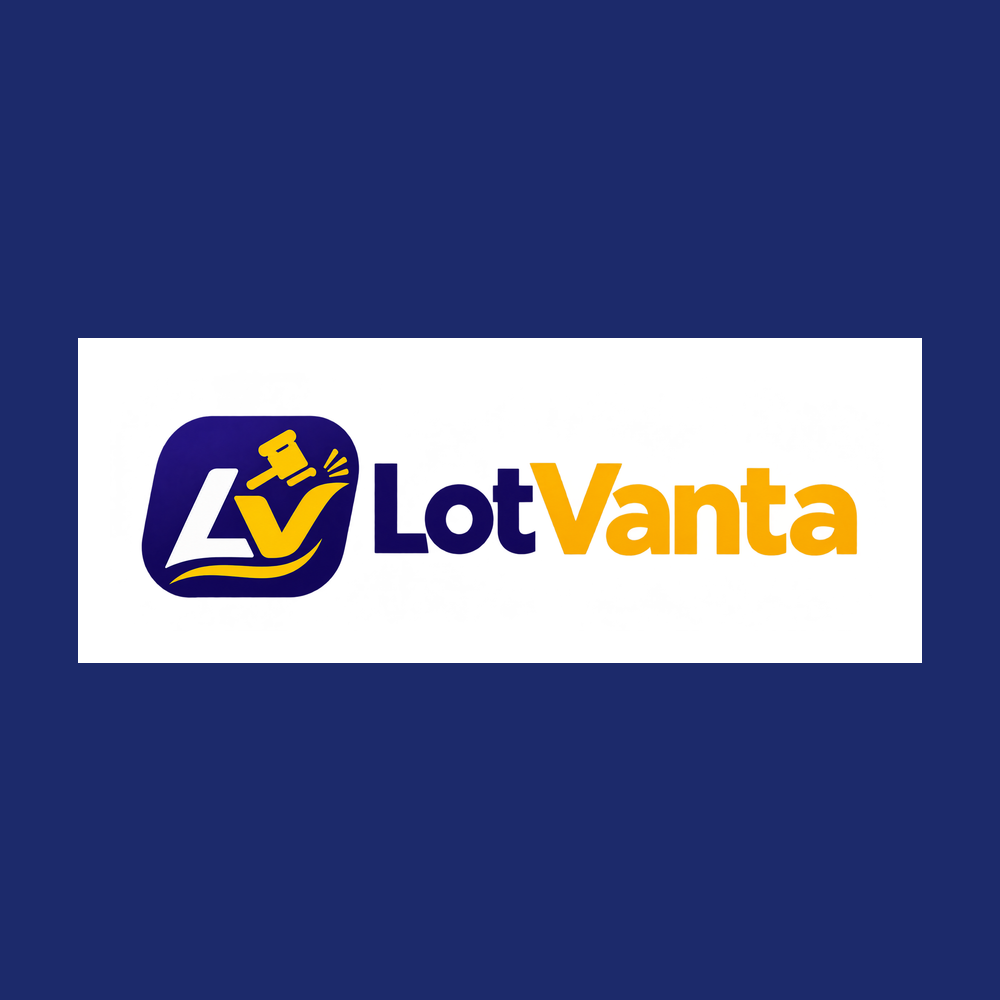
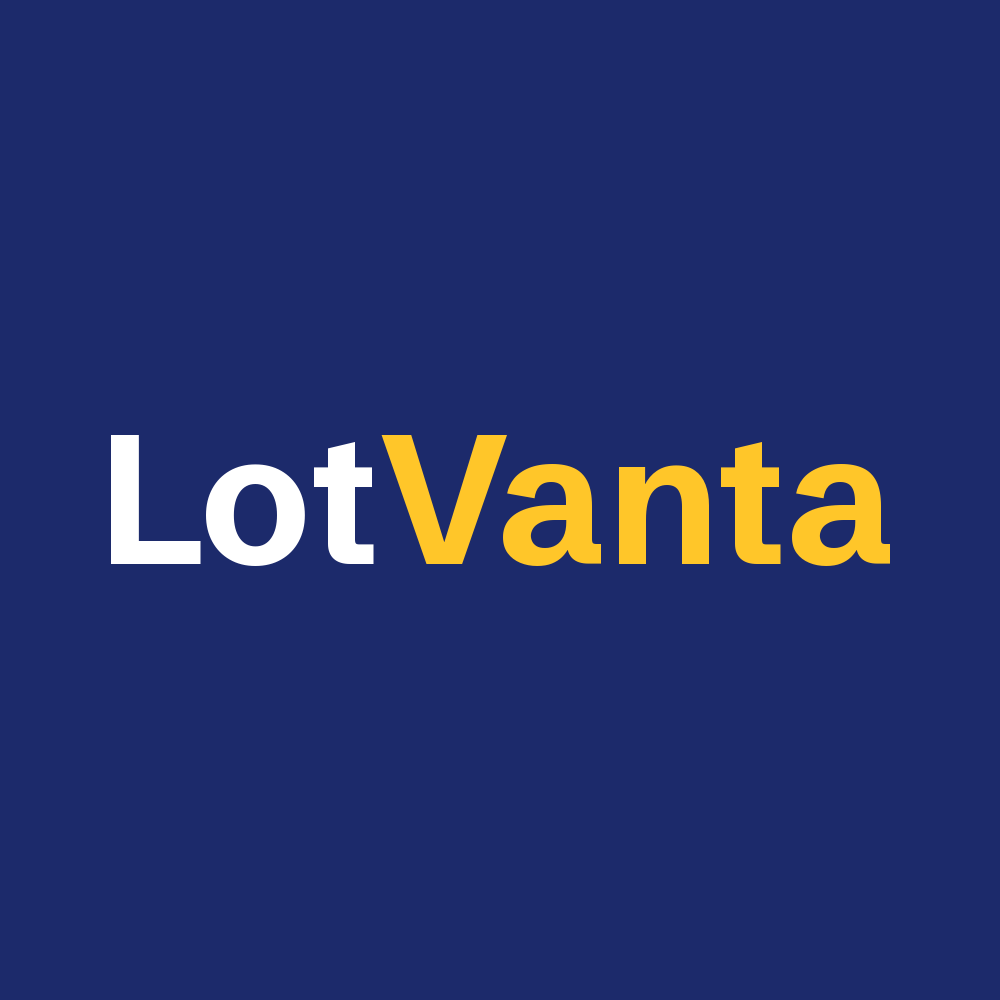
fix(mobile): remove splash plates and strengthen launch animation

Changed region(s): [[0.062, 0.341, 0.93, 0.682]]

diff --git a/apps/mobile/components/ui/launch-screen.tsx b/apps/mobile/components/ui/launch-screen.tsx
@@ -11,8 +11,7 @@ import { StatusBar } from 'expo-status-bar';
 import { mobileTheme as t } from '@auction-ng/ui';
 import { launchStyles as s } from './launch-styles';
 import wordmark from '../../assets/launch-wordmark.png';
-import tagline from '../../assets/launch-tagline.png';
-import icon from '../../assets/lotvanta-icon.png';
+import icon from '../../assets/launch-icon.png';
 
 export function LaunchScreen({
   error,
@@ -135,14 +134,33 @@ export function LaunchScreen({
                 {
                   scale: reveal.interpolate({
                     inputRange: [0, 1],
-                    outputRange: [0.96, 1],
+                    outputRange: [0.8, 1],
+                  }),
+                },
+                {
+                  translateY: reveal.interpolate({
+                    inputRange: [0, 1],
+                    outputRange: [24, 0],
                   }),
                 },
               ],
             },
           ]}
         >
-          <Image source={icon} style={s.brandIcon} resizeMode="contain" />
+          <Animated.View
+            style={{
+              transform: [
+                {
+                  scale: pulse.interpolate({
+                    inputRange: [0, 1],
+                    outputRange: [1, 1.04],
+                  }),
+                },
+              ],
+            }}
+          >
+            <Image source={icon} style={s.brandIcon} resizeMode="contain" />
+          </Animated.View>
           <Image
             source={wordmark}
             style={s.wordmark}
@@ -151,15 +169,22 @@ export function LaunchScreen({
             onLoad={() => setArtworkLoaded(true)}
             onError={() => setArtworkLoaded(true)}
           />
+          <Animated.Text
+            style={[
+              s.tagline,
+              {
+                opacity: reveal.interpolate({
+                  inputRange: [0, 0.4, 1],
+                  outputRange: [0, 0, 1],
+                }),
+              },
+            ]}
+          >
+            Bid. Win. Save.
+          </Animated.Text>
         </Animated.View>
       </View>
       <View style={s.bottom}>
-        <Image
-          source={tagline}
-          style={s.tagline}
-          resizeMode="contain"
-          accessibilityLabel="Bid. Win. Save."
-        />
         {error ? (
           <Text style={s.error}>
             The app could not finish loading. Close LotVanta and try again.

diff --git a/apps/mobile/components/ui/launch-styles.ts b/apps/mobile/components/ui/launch-styles.ts
@@ -88,13 +88,11 @@ export const launchStyles = StyleSheet.create({
   wordmark: {
     width: 300,
     maxWidth: '100%',
-    height: 130,
-    borderRadius: t.radius.card,
+    height: 64,
   },
   brandIcon: {
-    width: 112,
-    height: 112,
-    borderRadius: t.radius.promotion,
+    width: 160,
+    height: 160,
   },
   brandGroup: {
     alignItems: 'center',
@@ -109,7 +107,13 @@ export const launchStyles = StyleSheet.create({
     alignItems: 'center',
     gap: t.spacing.xl,
   },
-  tagline: { width: 200, height: 28 },
+  tagline: {
+    ...t.typography.title,
+    fontFamily: t.fontFamily,
+    fontWeight: '800',
+    color: t.colors['danfo-400'],
+    textAlign: 'center',
+  },
   dots: { flexDirection: 'row', gap: t.spacing.sm },
   dot: {
     width: 6,

diff --git a/apps/mobile/app.config.ts b/apps/mobile/app.config.ts
@@ -21,7 +21,7 @@ export default ({ config }: ConfigContext): ExpoConfig => {
         'expo-splash-screen',
         {
           ...launchTheme,
-          image: './assets/lotvanta-icon.png',
+          image: './assets/launch-icon.png',
           imageWidth: 160,
           resizeMode: 'contain',
         },

diff --git a/packages/ui/motion-tokens.ts b/packages/ui/motion-tokens.ts
@@ -2,7 +2,7 @@ export const motionTokens = {
   flash: 300,
   sheet: 200,
   hover: 150,
-  launchReveal: 450,
+  launchReveal: 650,
   launchPulse: 1200,
   launchMinimum: 2400,
 } as const;

diff --git a/docs/DESIGN.md b/docs/DESIGN.md
@@ -336,3 +336,5 @@ LotVanta web logo sizing (2026-11-04): remove the legacy wordmark-dot style/deco
 Closing window amendment (2026-11-04): owner changes Closing Now to the final 30 minutes inclusive, superseding previous 20-minute rules. Web and mobile use the shared merchandising threshold for red countdowns; Top Deals excludes the same window. Longer countdowns remain indigo. Silent updates, expiry removal and deadline extensions remain unchanged. Evidence: design/home-live-thirty-minutes/README.md.
 
 Mobile LotVanta launch amendment (2026-11-04): use the supplied LV icon on the native indigo splash and above the bundled LotVanta wordmark in the React Native launch screen. Owner explicitly requests a visible introduction: keep the app overlay for at least 2.4 seconds after its logo loads, then dismiss only when session restoration is ready; retain the existing brief reveal/breathing dots/fade. Honour reduced motion without bypassing the display time. Block touches to underlying screens while the overlay remains. This supersedes the earlier no-minimum-delay launch rule. Installed native branding requires a new APK; Expo Go's own initial launcher cannot be replaced by JavaScript.
+
+Mobile launch polish correction (2026-11-04): remove the white-backed horizontal source logo from launch surfaces. Use a transparent circular LV viewport (the supplied raster has opaque black corners), with a transparent Schibsted LotVanta name in white/yellow below it. Keep web/footer artwork unchanged. Move Bid. Win. Save. into the central identity group at title size/800 in yellow. Use a 650 ms scale-and-lift entrance, delayed tagline reveal, gentle icon breathing and loading dots; preserve reduced motion and the 2.4-second minimum. Native splash remains static and uses the transparent LV asset; APK rebuild required. Physical-device animation/splash acceptance remains pending.

diff --git a/docs/decisions.md b/docs/decisions.md
@@ -383,3 +383,5 @@ Pending deposit cancellation (2026-10-31, owner confirmed): buyers may close own
 2026-11-04: Owner changes Closing Now from 20 to 30 minutes inclusive. Keep one shared merchandising threshold across web/mobile countdown colours, homepage grouping and API Top Deals exclusion. This changes presentation/merchandising only, not auction deadlines, soft close, money or bid acceptance. Historical 20-minute decisions above are superseded.
 
 2026-11-04: Owner requests visible LotVanta/LV launch branding for a few seconds. Approve a 2.4-second minimum after bundled logo load, followed by the existing fade once session restoration is ready; reduced motion suppresses animation, not visibility time. Native Expo splash uses LV icon on shared indigo. No sign-in/session security behaviour changes. Existing APK resources require rebuilding; JavaScript reload cannot change an old installed app name/native splash. No new dependency. Physical-device visual acceptance remains pending.
+
+2026-11-04: Owner rejects boxed LV/native icon and white-backed launch wordmark, small tagline and subtle motion. Replace launch-only artwork with circular alpha-clipped LV and transparent high-contrast typographic LotVanta name; do not change original files or web branding. Larger bold yellow tagline, stronger lift/scale/reveal and icon breathing use existing Animated primitives. No new dependency. This supersedes the earlier white-backing launch decision; native changes need an APK rebuild. Visual checks of generated assets passed; phone screenshots remain pending.

diff --git a/docs/TASKS.md b/docs/TASKS.md
@@ -526,3 +526,5 @@ Owner-approved identity applied across web/admin/mobile display text, supplied l
 [x] Thirty-minute Closing Now window (2026-11-04): shared threshold and web timer updated, API/staff guidance aligned; 14 targeted home/native countdown tests, changed-file lint, shared UI types and web/API/admin production builds pass. Browser check verifies inclusive boundary, Top Deals exclusion, red/indigo timers, extensions, silent stock refresh, expiry and clock outage at 360/768/1280. Evidence: docs/design/home-live-thirty-minutes/README.md. Local web/API/admin updated; Expo uses the shared source on reload.
 
 T14 LotVanta launch follow-up (2026-11-04): configured LV native splash, LV icon plus supplied LotVanta logo in app overlay, 2.4-second minimum logo visibility before readiness-gated exit, reduced-motion support and overlay touch blocking. Changed-file lint/mobile types pass. Physical launch screenshots and newly installed APK verification remain pending; do not claim native splash acceptance from Expo Go or bundle checks.
+
+T14 launch polish correction (2026-11-04): transparent native/in-app LV artwork, transparent white/yellow brand name, larger bold yellow tagline and stronger entrance/icon breathing implemented. Targeted lint/mobile types and alpha-channel asset validation pass. Android bundle checked separately. Native installed splash/animation visual acceptance remains pending a new APK and physical-device review; no emulator recreated.

diff --git a/apps/mobile/assets/README.md b/apps/mobile/assets/README.md
@@ -5,3 +5,5 @@ Run `node scripts/prepare-mobile-brand.mjs` from the repository root with Node 2
 `lotvanta-logo.png` is the supplied horizontal logo. `lotvanta-icon.png` is the installed app icon. `launch-wordmark.png` provides a white backing for the dark lettering; `launch-native.png` places it on the shared indigo launch canvas. `launch-tagline.png` keeps Bid. Win. Save. in the licensed local font. The native app name/icon/splash require a new installed build; Expo Go owns its launcher.
 
 `home-phone.webp` remains the bundled, credited representative promotion described in `apps/web/public/demo/CREDITS.md`. Historical review screenshots retain the branding that was visible when captured.
+
+Launch artwork update (2026-11-04): launch-icon.png uses a circular alpha mask to exclude the supplied icon's opaque black corners. launch-wordmark.png is a transparent white/yellow Schibsted LotVanta name for the dark launch canvas. Source logo/icon files and web/footer derivatives remain unchanged. The native splash uses launch-icon.png; rebuilding the APK is required to update it. The in-app tagline is rendered as bold text with shared typography tokens.
